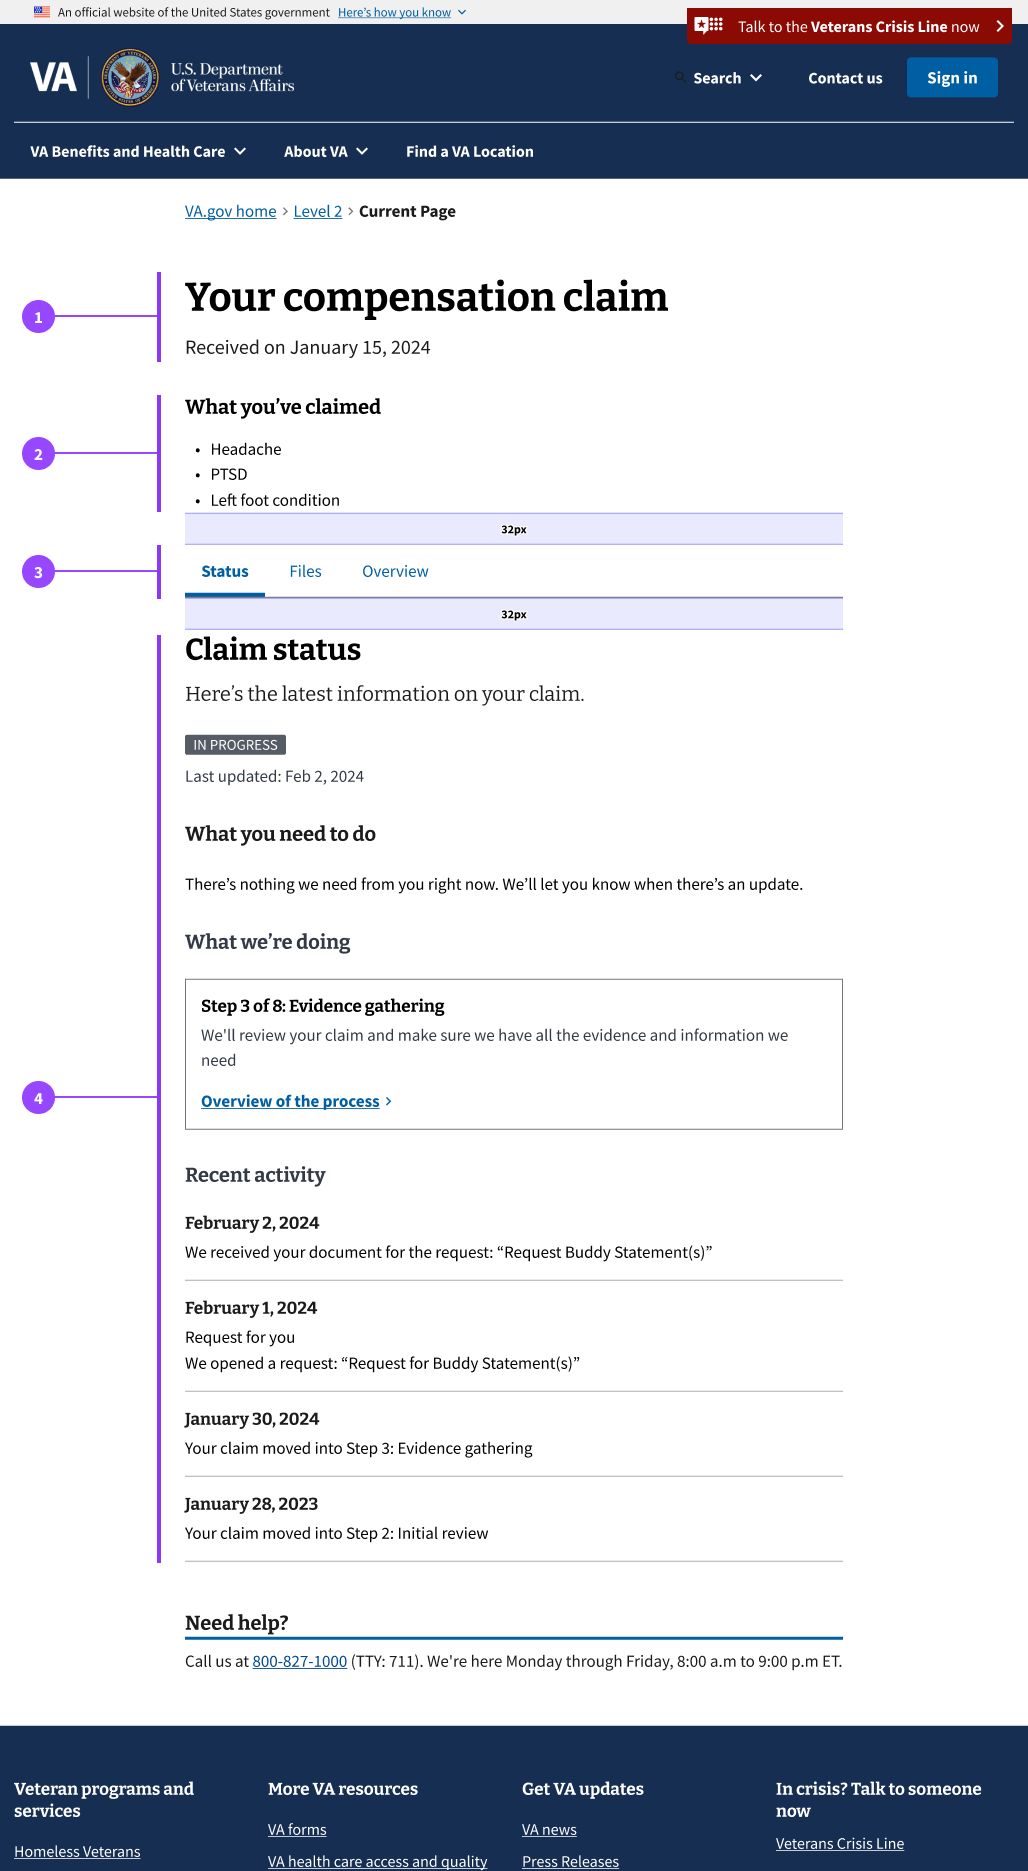
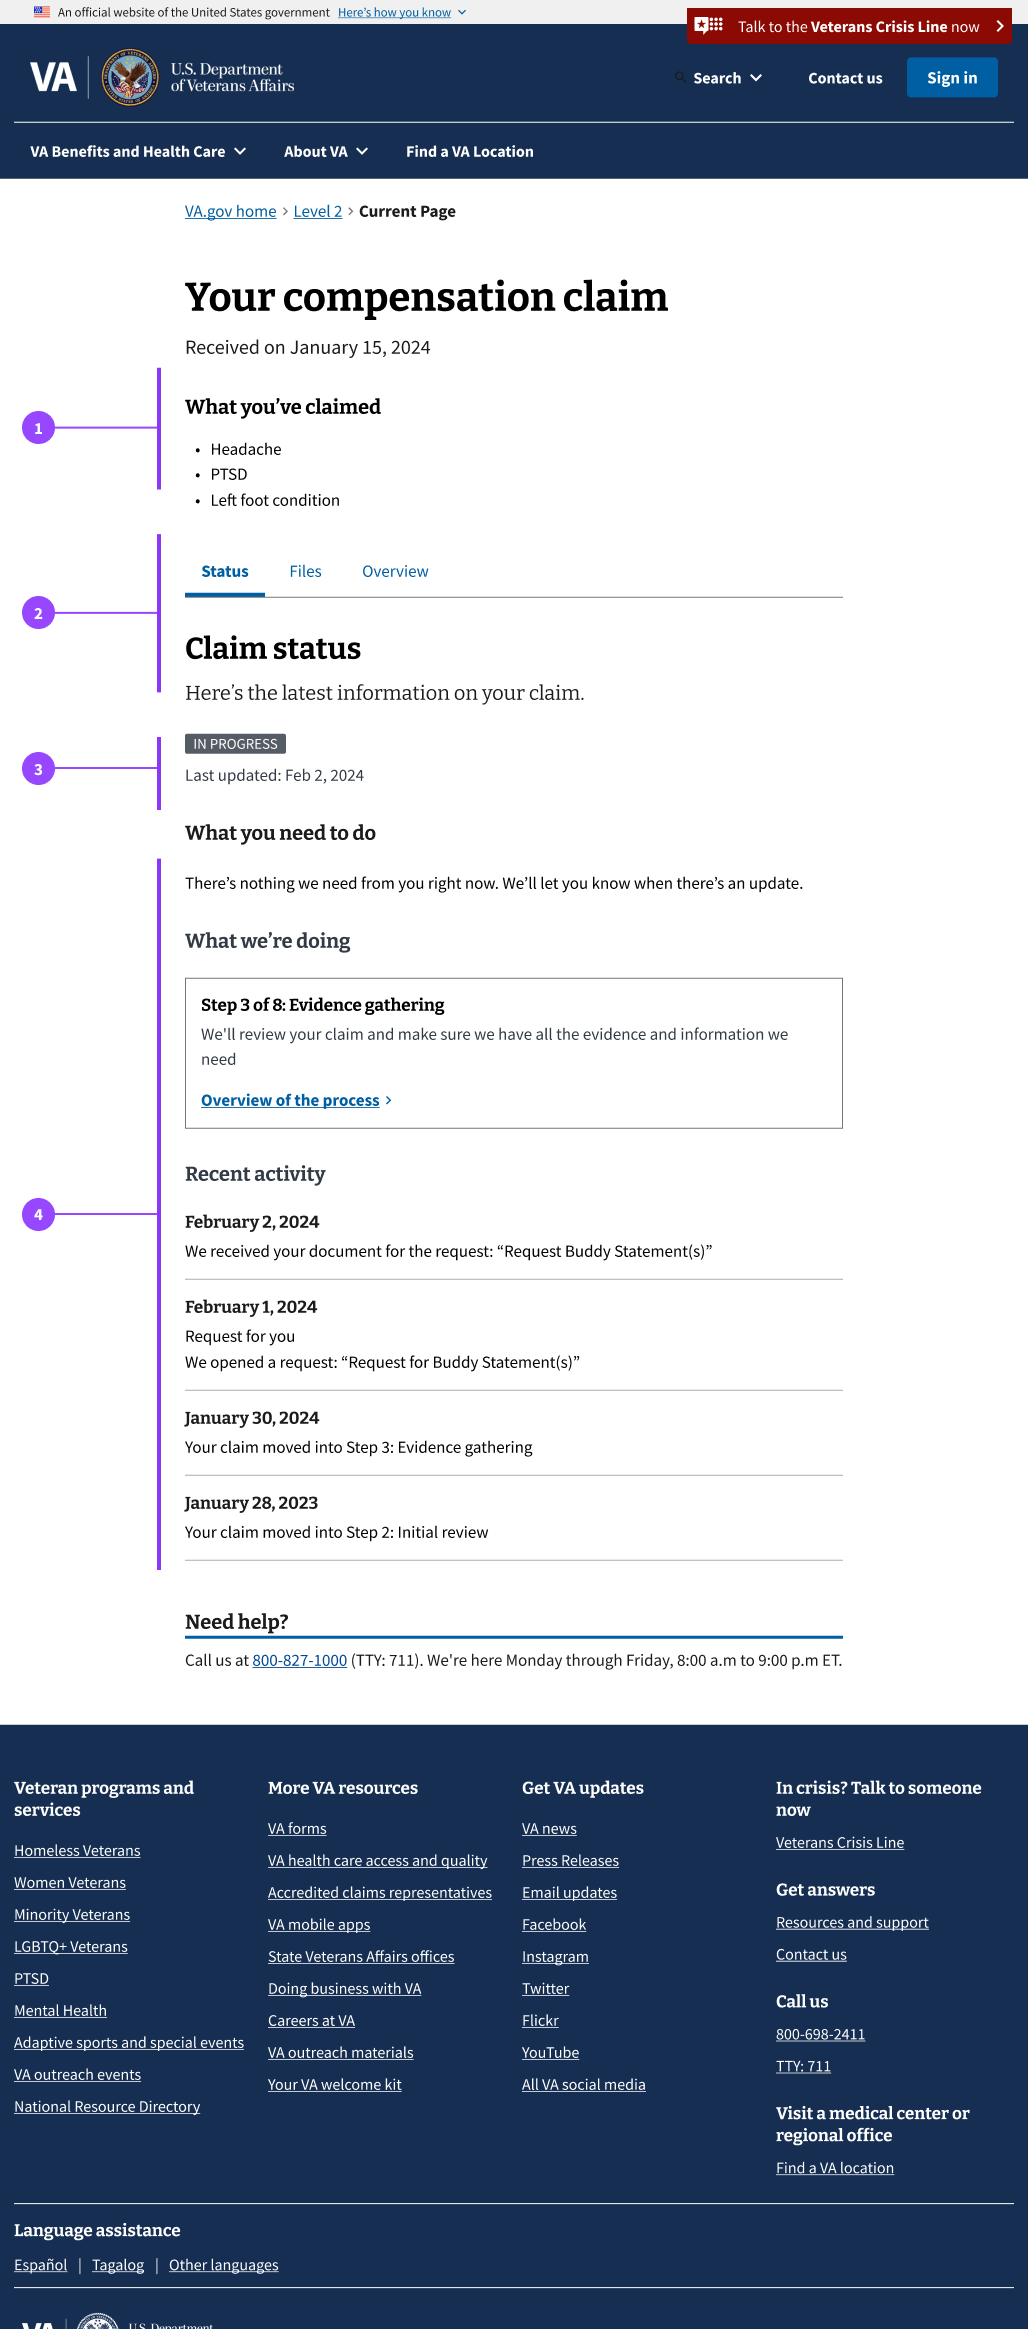
Added mockups for spacing

diff --git a/src/_components/tabs.md b/src/_components/tabs.md
@@ -52,7 +52,6 @@ anchors:
 * **Chunking content.** Consider using an [Accordion]({{ site.baseurl }}/components/accordion) to display 1 chunk of content at a time.
 * **Hierarchical content.** If your content is hierarchical or sequential, consider using a single page of well-formatted headings and body text. Use the [On this page]({{ site.baseurl }}/components/on-this-page) component to navigate within a single page.
 * **Moving up or down in navigational hierarchy.** Use the [Side Navigation]({{ site.baseurl }}/components/side-navigation) component to move up or down in hierarchy or when the content has over 4 or 5 sections.
-* **Instant loading.** The tabs are URL-based, which will reload the entire page when users click between tabs. This Nielsen Norman Group article [Tabs, Used Right](https://www.nngroup.com/articles/tabs-used-right/) provides more details on the differences between navigation tabs and in-page tabs.  
 
 ### How this component works
 
@@ -60,9 +59,13 @@ anchors:
 
 The Tab component works best when 3 or fewer tabs are needed. If the Tabs overflow on small screens a scrollbar is used so that all tabs are still navigable. This isn't ideal because horizontal scrolling makes tabs hard to find and scrollbar behavior isn't consistent across browsers. When using Tabs be mindful of how many tabs can fit on small screens to minimize scrolling.
 
+{% include storybook-preview.html story="va-tabs--with-additional-tab-item" link_text="va-tabs--with-additional-tab-item" %}
+
 #### Tab panel
 
-The Tabs use a tab panel as a container for the content associated with the selected Tab. A 32px space is the recommended spacing between the content within the tab panel and tabs and is included in the Tabs component. If a different spacing is required the default spacing can be overridden. 
+The Tabs use a tab panel as a container for the content associated with the selected Tab. A 32px space between the tab panel and tabs is recommended for both desktop and mobile views. This is already included in the Tabs component. If a different spacing is required the default spacing can be overridden. 
+
+{% include component-example.html alt="Desktop view: 32px margin being shown above and below the tabs." caption="Desktop view: 32px of space is recommended above and below the tabs." file="/images/components/tabs/Desktop-ClaimStatus-Files.png" class="x2" %}
 
 ## Behavior
 
